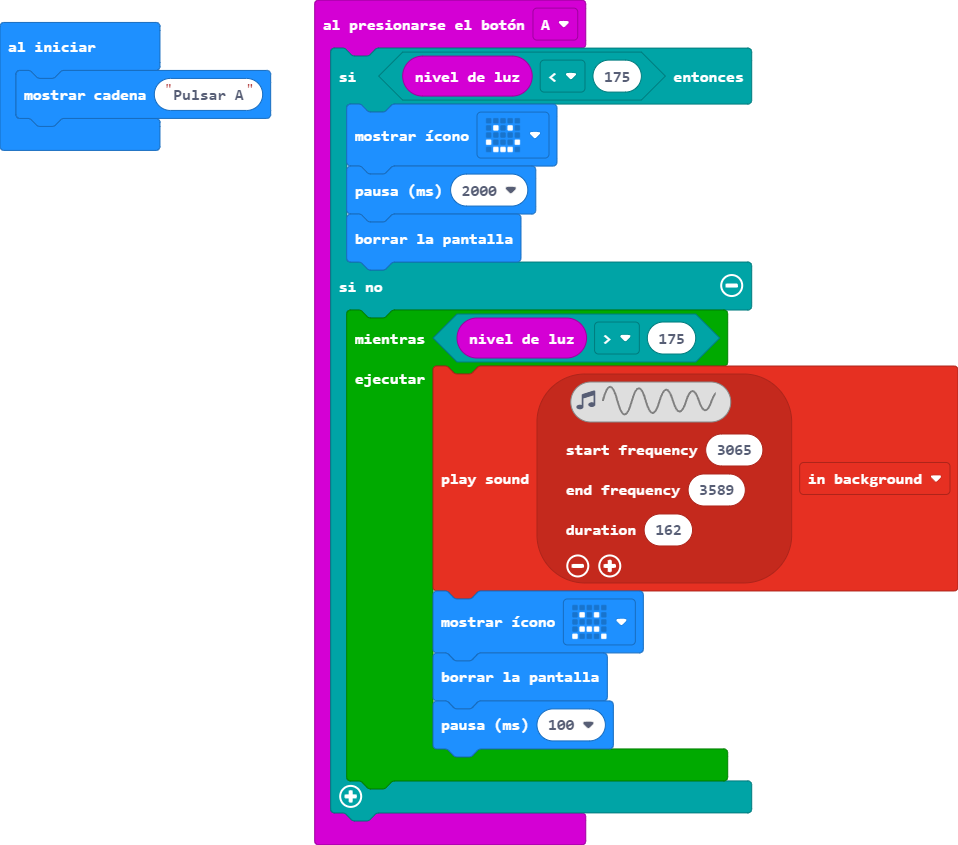
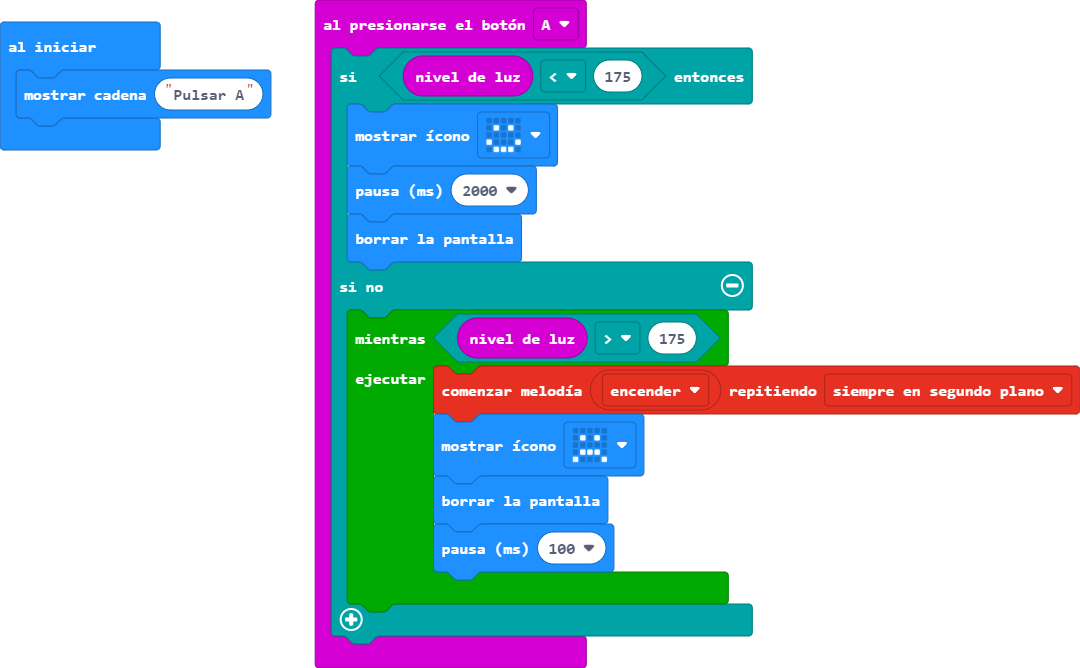
Actualizar main.blocks, main.ts

diff --git a/main.ts b/main.ts
@@ -5,16 +5,7 @@ input.onButtonPressed(Button.A, function () {
         basic.clearScreen()
     } else {
         while (input.lightLevel() > 175) {
-            music.playSoundEffect(music.createSoundEffect(
-            WaveShape.Sine,
-            3065,
-            3589,
-            255,
-            144,
-            162,
-            SoundExpressionEffect.None,
-            InterpolationCurve.Linear
-            ), SoundExpressionPlayMode.InBackground)
+            music.startMelody(music.builtInMelody(Melodies.PowerUp), MelodyOptions.ForeverInBackground)
             basic.showIcon(IconNames.Sad)
             basic.clearScreen()
             basic.pause(100)
